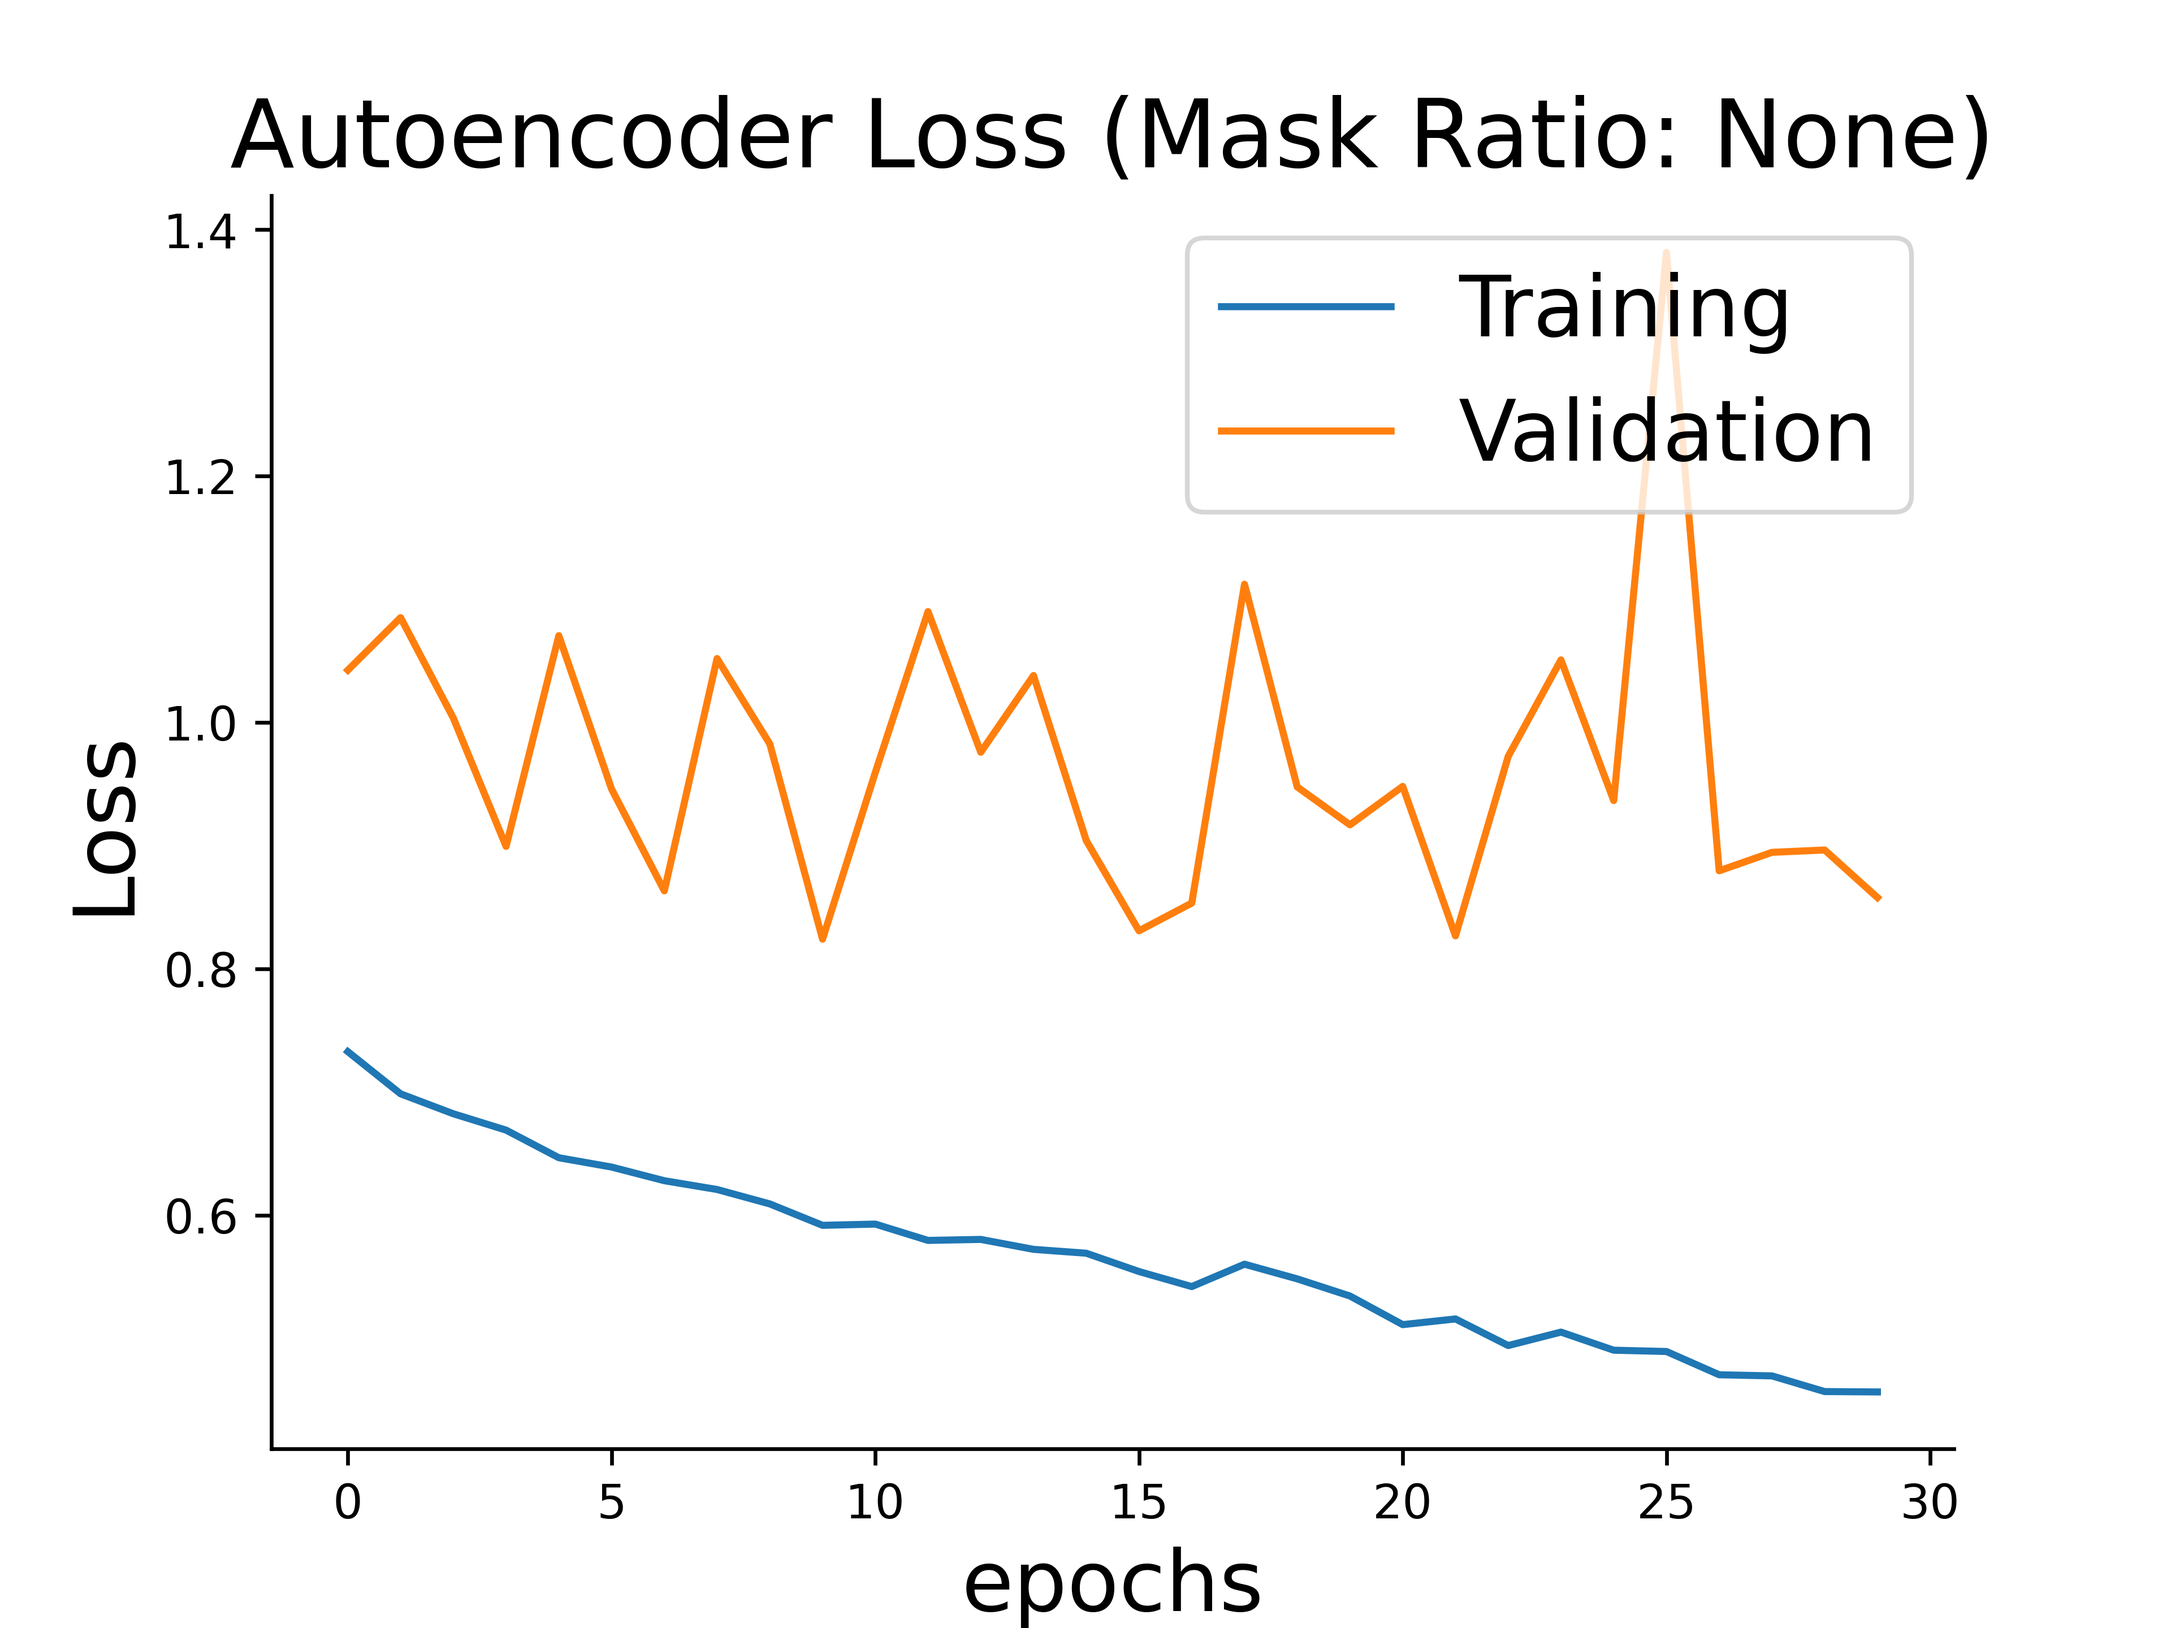
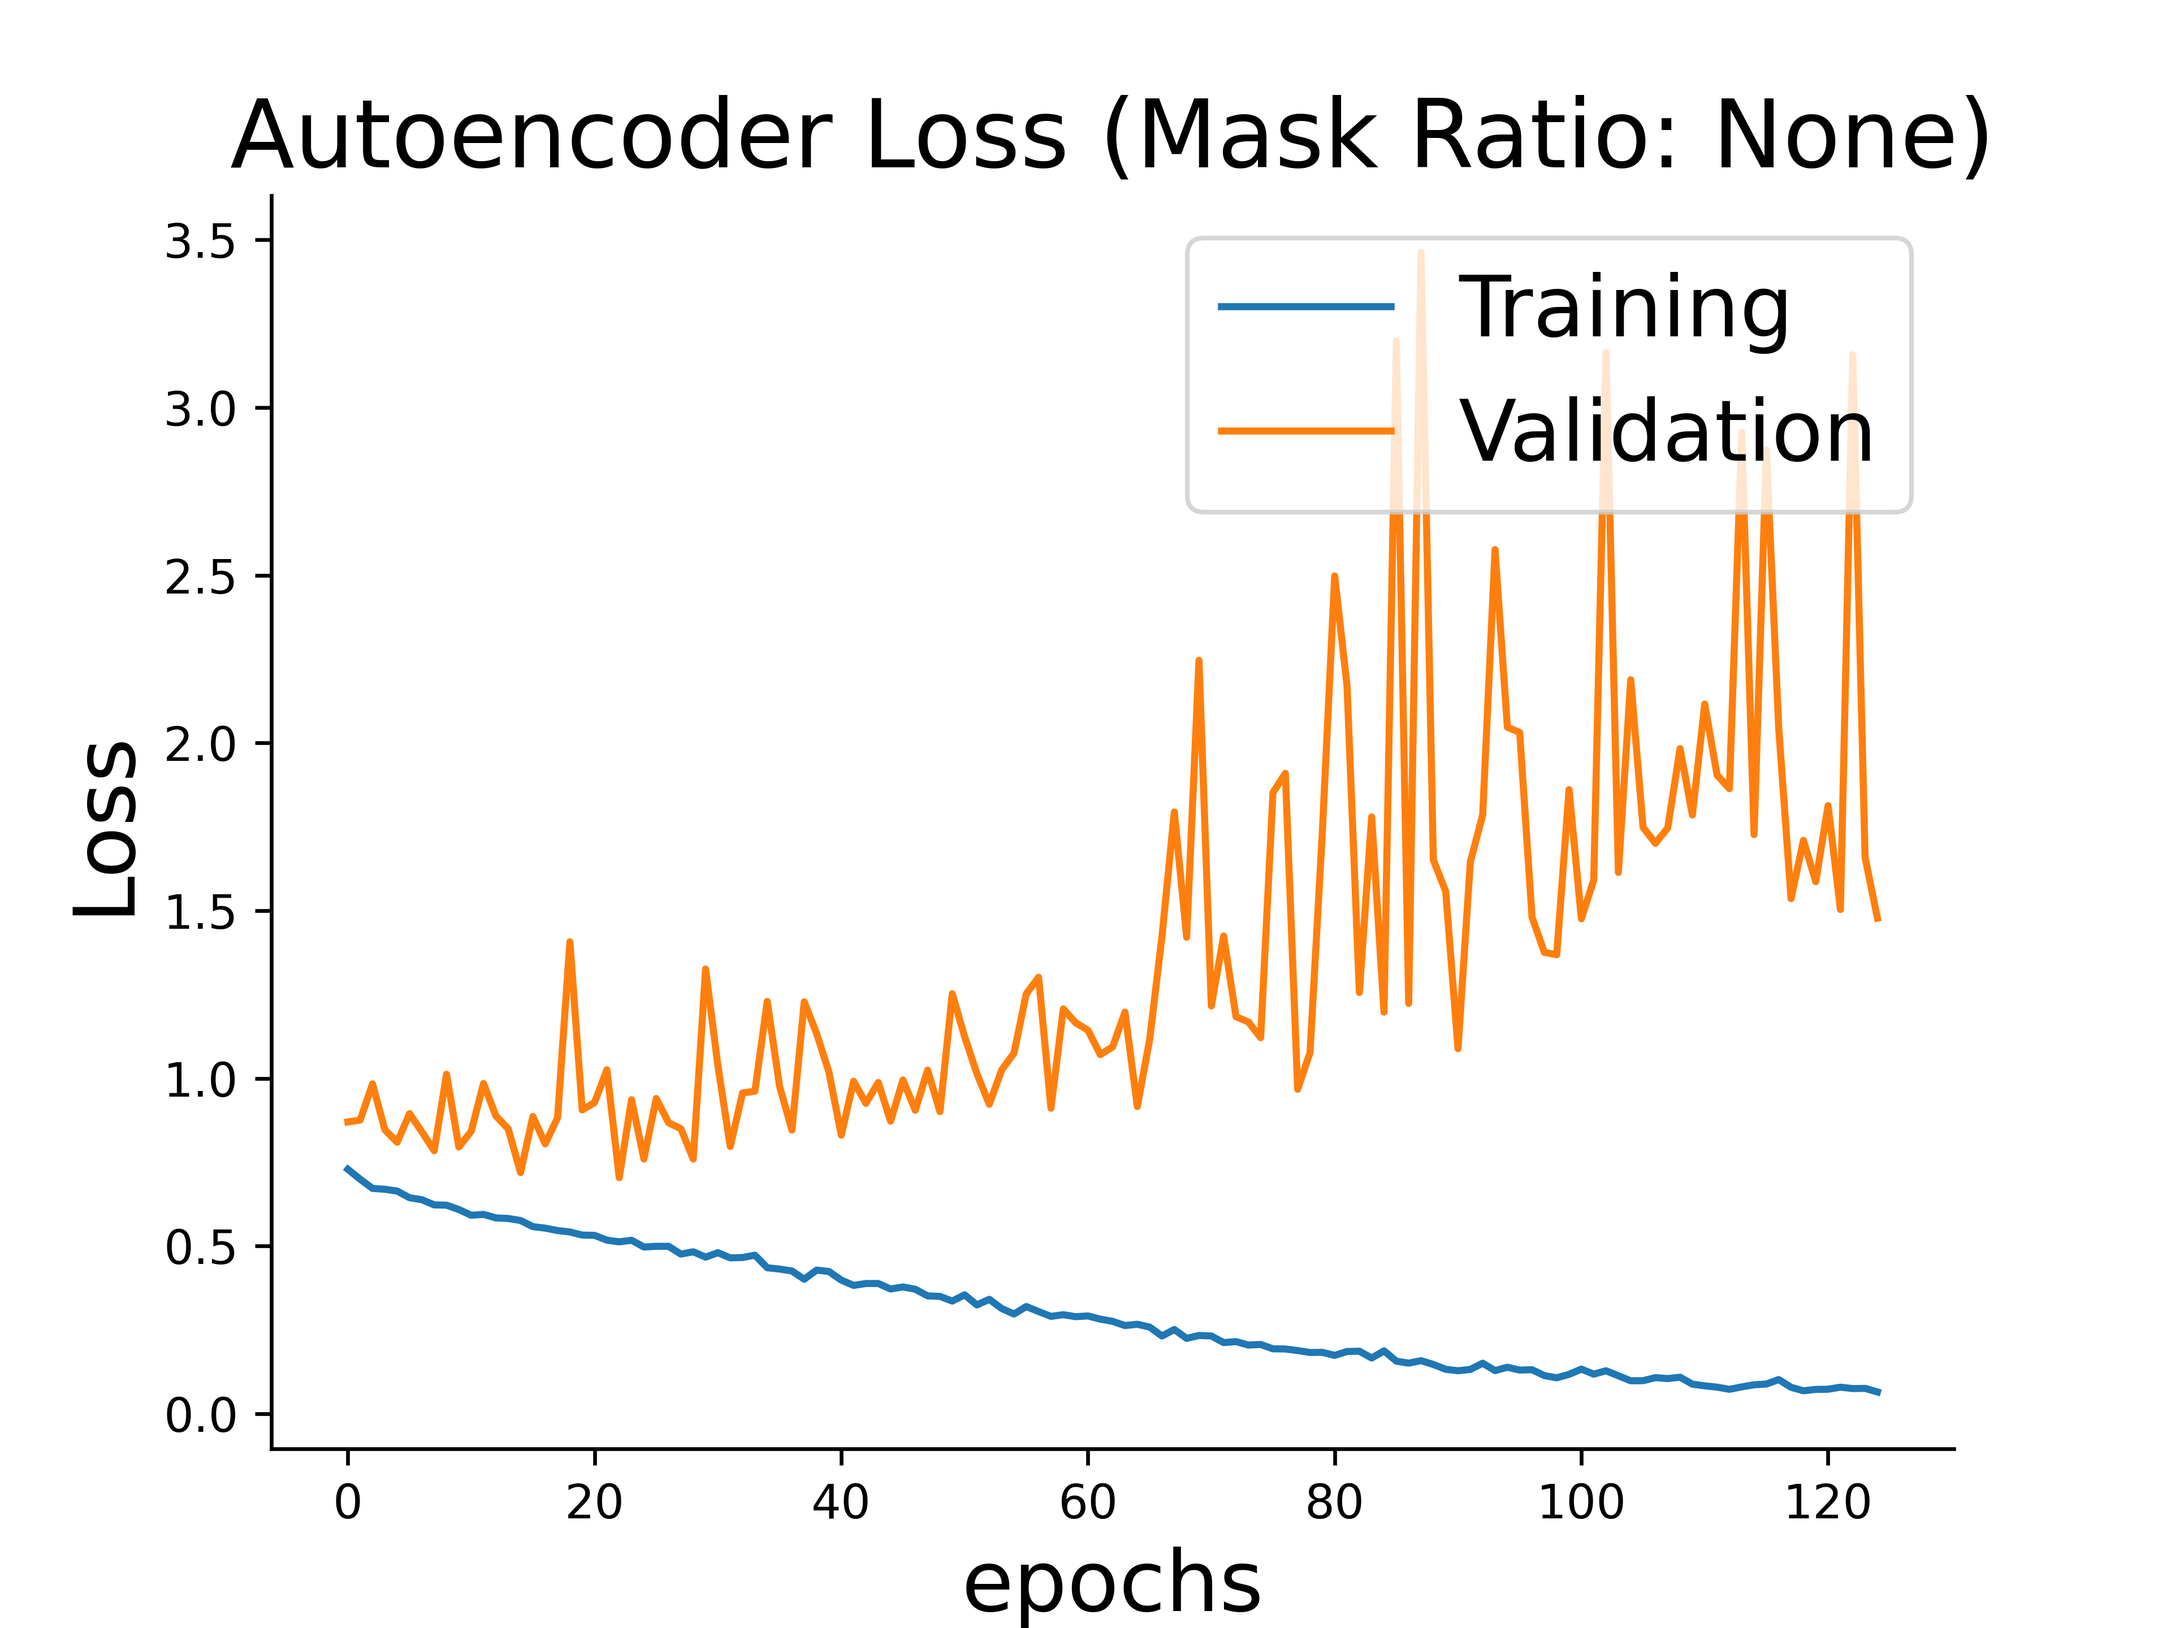
Manuscript Updates, README updates, utility updates: * Changed models to use masks extracted from Nrrd images provided by BWH * No architecture modification, planned to improve model generalizability * Image results show band or no signal for original images eventhough data should be present, need t

diff --git a/main.py b/main.py
@@ -76,7 +76,6 @@ def experiment(dataset:object, method:str, config:object, masksize:int):
     sensitivity =  np.zeros((config['experiment']['folds'],config['experiment']['reps']))
     specificity =  np.zeros((config['experiment']['folds'],config['experiment']['reps']))
     auc_scores = np.zeros((config['experiment']['folds'],config['experiment']['reps']))
-    train_time = np.zeros((config['experiment']['folds'],config['experiment']['reps']))
     
 
     if method != 'Otsu' or method != 'BlockDrop':
@@ -167,20 +166,22 @@ def experiment(dataset:object, method:str, config:object, masksize:int):
                     utils.saveAttentionImg(FPoimg, method, masksize, title= 'AverageFalsePositive_Image')
 
                 if config['flags']['Standards']:
-                    selected_images = [
-                                    '100463_0_x.jpg',  # Benign Nodule
-                                    '100397_0_x.jpg',  # Benign Nodule + Parenchymal abnormalities
-                                    '101606_0_x.jpg',  # Benign Nodule + Plural Wall
-                                    '100012_1_x.jpg',  # Malignant Nodule
-                                    '100570_1_y.jpg',  # Malignant Nodule + Parenchymal abnormalities
-                                    '101692_1_y.jpg',  # Malignant Nodule + Plural Wall
+                    cherryids = [
+                                    '100463_0_x.png',  # Benign Nodule
+                                    '100397_0_x.png',  # Benign Nodule + Parenchymal abnormalities
+                                    '101606_0_x.png',  # Benign Nodule + Plural Wall
+                                    '100012_1_x.png',  # Malignant Nodule
+                                    '100658_1_z.png',  # Malignant Nodule + Parenchymal abnormalities
+                                    '101692_1_y.png',  # Malignant Nodule + Plural Wall
                     ]
-                    for img in selected_images:
-                        imfile = os.path.split(os.getcwd())[0] + '/dataset/' + img
-                        image.getcam(imfile, masksize, net, method, config['device'], fileid = img)
+
+                    df = dataloader.cherrypick(cherryids, filepath= config['experiment']['data'])
+                    cherryset = dataloader.DFLoader(df, method)
+                    cherryloader = torch.utils.data.DataLoader(cherryset, batch_size= 125, shuffle=True)
+                    image.getcam(cherryloader, masksize, net, method, config['device'])
 
 
-                image.getcam(testloader, masksize, net, method, config['device'], folder = '/GradCAM/')
+                # image.getcam(testloader, masksize, net, method, config['device'], folder = '/GradCAM/')
 
             sensitivity[k,r] = sens
             specificity[k,r] = spec
@@ -245,9 +246,6 @@ def main(args, command_line_args):
                 experiment(dataset=dataset, method=method, config=config, masksize=masksize)
         else:
             experiment(dataset=dataset, method=method, config=config, masksize=None)
-            
-
-
 
 def build_parser() -> argparse.ArgumentParser:
     parser = argparse.ArgumentParser()
@@ -255,8 +253,8 @@ def build_parser() -> argparse.ArgumentParser:
     # Experiment Settings
     parser.add_argument('--data', type=str, required=True, help='Absolute path for data directory')
     parser.add_argument('--seed', type=int, default= 2022, help='Random Seed for Initializing Network')
-    parser.add_argument('--reps', type=int, default=1, help='Number of repetition for a given fold')
-    parser.add_argument('--folds', type=int, default=1, help='Number of Folds')
+    parser.add_argument('--reps', type=int, default=5, help='Number of repetition for a given fold')
+    parser.add_argument('--folds', type=int, default=5, help='Number of Folds')
     parser.add_argument('--split', type=tuple, default=(0.7,0.15,0.15), help='Dataset training/validation/testing split')
     parser.add_argument('--model', type=str, default='Miniception', choices=['Miniception','MobileNetV1','MobileNetV2'])
     parser.add_argument('--method', type=list, default=['Original','Tumor-Segmentation','Surround-Segmentation'], 
@@ -267,7 +265,7 @@ def build_parser() -> argparse.ArgumentParser:
     # Optimizer Arguments
     parser.add_argument('--loss', type=str, default='entropy')
     parser.add_argument('--optim', type=str, default='Adam')
-    parser.add_argument('--epochs', type=int, default=30)
+    parser.add_argument('--epochs', type=int, default=125)
     parser.add_argument('--lr', type=float, default=0.0001)
     parser.add_argument('--betas',type=tuple, default=(0.9,0.999))
     parser.add_argument('--rho',type=float, default=0.9)
@@ -277,7 +275,7 @@ def build_parser() -> argparse.ArgumentParser:
     # Experiment Flags
     parser.add_argument('--composites', type=bool, default=True, help='Create Composite Images of false negatives, false positives, etc...')
     parser.add_argument('--bestmodel', type=bool, default=True, help='Evaluate Best Model')
-    parser.add_argument('--standards', type=bool, default=False, help='Evaluate Cherry Picked Images')
+    parser.add_argument('--standards', type=bool, default=True, help='Evaluate Cherry Picked Images')
     parser.add_argument('--features', type=bool, default=False, help='Not Implemented')
     parser.add_argument('--concepts', type=bool, default=False, help='Not Implemented')
     parser.add_argument('--params', type=bool, default=True, help='Print number of parameters in Network')

diff --git a/ParenchymalAttention/utils/image.py b/ParenchymalAttention/utils/image.py
@@ -85,7 +85,7 @@ def segmentation_map(im, maskmap):
 
     return thres_img
     
-def getcam(testloader, masksize, net, dataset, device, folder = '/StandardImages/', normalize=True):
+def getcam(testloader, masksize, net, method, device, folder = '/StandardImages/', normalize=True):
     """"
     Description:
     -----------
@@ -95,12 +95,10 @@ def getcam(testloader, masksize, net, dataset, device, folder = '/StandardImages
     """
 
     for i, data in enumerate(testloader):
-        images = data['image']
-        label = data['label']
+        images = data['image'].to(device = device, dtype = torch.float)
+        label = data['label'].to(device = device)
         pids = data['id']
 
-        images = images.to(device=device, dtype=torch.float)
-        label = label.to(device=device)
         
         output, x_avgs = net(images, flag=True)
 
@@ -130,9 +128,9 @@ def getcam(testloader, masksize, net, dataset, device, folder = '/StandardImages
                     folder += 'FN/'
             
             x_avg = x_avgs[i].cpu().detach().numpy()
-            # showImageCam(image, x_avg, prediction, net, dataset, ms = masksize, title = fileid, folder = folder)
+            showImageCam(image, x_avg, prediction, net, method, ms = masksize, title = fileid, folder = folder)
 
-def showImageCam(img, mask, pred, net, dataset, ms = None, title=None, folder = '/StandardImages/'):
+def showImageCam(img, mask, pred, net, method, ms = None, title=None, folder = '/StandardImages/'):
     """"
     Description:
     -----------
@@ -141,7 +139,6 @@ def showImageCam(img, mask, pred, net, dataset, ms = None, title=None, folder = 
     Returns:
     """
     nc, h, w, = mask.shape
-    print(img.shape)
     depth, width, height = img.shape
 
     params = list(net.parameters())
@@ -166,7 +163,7 @@ def showImageCam(img, mask, pred, net, dataset, ms = None, title=None, folder = 
 
     img_heat = heatmap*0.7 + im
 
-    resultpath = os.path.split(os.getcwd())[0] + "/results/"
+    resultpath = os.getcwd() + "/results/"
 
     img_heat *= 255.0/np.amax(img_heat)
     img_heat = np.uint8(img_heat)
@@ -176,15 +173,15 @@ def showImageCam(img, mask, pred, net, dataset, ms = None, title=None, folder = 
     plt.imshow(img_heat_plt, vmin = 150 , vmax = 255)
     plt.colorbar()
     
-    if dataset != "Original":
-        plt.savefig(resultpath + dataset + '/' + str(ms) + 'x' + folder + title + '_attention.png')
-        # cv2.imwrite(resultpath + dataset + '/' + str(ms) + 'x' + folder + title + '_attention.png', img_heat)    
-        cv2.imwrite(resultpath + dataset + '/' + str(ms) + 'x' + folder + title + '_original.png', im)
+    if ms != None:
+        plt.savefig(resultpath + method  + str(ms) + 'x' + folder + title + '_attention.png')
+        # cv2.imwrite(resultpath + method + str(ms) + 'x' + folder + title + '_attention.png', img_heat)    
+        cv2.imwrite(resultpath + method + str(ms) + 'x' + folder + title + '_original.png', im)
 
     else:
-        plt.savefig(resultpath + dataset + folder + title + '_attention.png')
-        # cv2.imwrite(resultpath + dataset + folder + title + '_attention.png', img_heat)
-        cv2.imwrite(resultpath + dataset + folder + title + '_original.png', im)
+        plt.savefig(resultpath + method + folder + title + '_attention.png')
+        # cv2.imwrite(resultpath + method + folder + title + '_attention.png', img_heat)
+        cv2.imwrite(resultpath + method + folder + title + '_original.png', im*125)
     
     plt.close()
 

diff --git a/ParenchymalAttention/data/dataloader.py b/ParenchymalAttention/data/dataloader.py
@@ -113,6 +113,24 @@ def resample_df(seed, df, method):
     else:
         print('Error: unknown method')
 
+def cherrypick(fileids:list, filepath:str):
+    """
+    Description:
+    -----------
+    Parameters:
+    -------
+    Returns:
+    """
+    originals = [filepath + 'Original/' + x for x in fileids]
+    segmented = [filepath + 'Segmented/' + x for x in fileids]
+    pid = [x.split('_')[0] for x in fileids]
+    ca = [x.split('_')[1] for x in fileids]
+    sliceview = [x.split('_')[2] for x in fileids]
+
+    df = pd.DataFrame(np.transpose([originals, segmented, pid, ca, sliceview]), columns=['uri','segmented_uri', 'pid', 'ca', 'sliceview'])
+    df['ca'] = df['ca'].astype(int)
+    return df
+
 def load_files(config):
     """
     Description:

diff --git a/ParenchymalAttention/utils/utils.py b/ParenchymalAttention/utils/utils.py
@@ -81,11 +81,12 @@ def saveAttentionImg(img_list, method, ms, heatmap = False, title = None):
     --------
     Returns:
     """ 
+
     w = 64 #img_list[0].shape[0]
     h = 64 #img_list[0].shape[1]
-    d = 4 #img_list[0].shape[2]
+    d = 3 #img_list[0].shape[2]
     img = np.zeros((w,h,d))
-
+    
     if len(img_list) != 0:
         for i in range(len(img_list)):
             img += img_list[i]
@@ -102,7 +103,7 @@ def saveAttentionImg(img_list, method, ms, heatmap = False, title = None):
             else:
                 pth_to_save = os.getcwd()+ "/results/" + method + '/Composites/' + title + '.png'
 
-        cv2.imwrite(pth_to_save, img*255)
+        cv2.imwrite(pth_to_save, img*125)
 
         
 def create_directories(config):

diff --git a/ParenchymalAttention/networks/eval.py b/ParenchymalAttention/networks/eval.py
@@ -185,7 +185,7 @@ def test(testloader, net, device, CreateComposites=None):
                 count += 1
 
                 if CreateComposites:
-                    ori_img = np.zeros((64,64,4))
+                    ori_img = np.zeros((64,64,3))
                     ori_img[:,:,:] = images[i].cpu().numpy().T   
     
                 if labels[i] == 1:

diff --git a/README.md b/README.md
@@ -1,6 +1,48 @@
-# ParenchymalAttention# ParenchymalAttention
-### Abstract
 
-### Introduction
-### Results
-###
+# Non-small Cell Lung Cancer - Parenchymal Attention
+Welcome to [ParenchymalAttention](/ParenchymalAttention/) 
+## Table of Contents
+- [Abstract:](#abstract)
+- [Requirements:](#requirements)
+- [Getting Started:](#getting-started)
+- [Components:](#components)
+- [Citation:](#citation)
+
+---
+## Abstract:
+---
+## Requirements: 
+Review [requirements.txt](/ParenchymalAttention/requirements.txt) for necessary libraries
+
+---
+## Getting Started:
+### Training a Model from Scratch:
+```
+./ParenchymalAttention/ $ python main.py --config /config/training.yaml
+```
+### Training a Model from Existing network:
+```
+Not available at this time (check back later :p)
+```
+### Evaluating a Model on New data:
+```
+./ParenchymalAttention/ $ python main.py --config /config/training.yaml
+```
+---
+## Components
+### [Config:](/ParenchymalAttention/configs/)
+Folder containing master yaml files for training and inference protocols for ML scientist to run experiment and benchmarking
+### [Networks:](/ParenchymalAttention/ParenchymalAttention/networks/)
+
+### [data:](/ParenchymalAttention/ParenchymalAttention/data/)
+### [results:](/ParenchymalAttention/results)
+### [Utilities:](/ParenchymalAttention/ParenchymalAttention/utils/)
+Folder containing all utility function for visualization of results, saving networks, loading networks
+### [bin:](/ParenchymalAttention/ParenchymalAttention/bin/)
+Folder designed to contain **.sh** filetypes in order to allow rapid deployment of experiments to benchmark networks, alongside code for statistical analysis.
+
+----
+## Citation:
+```
+
+```
